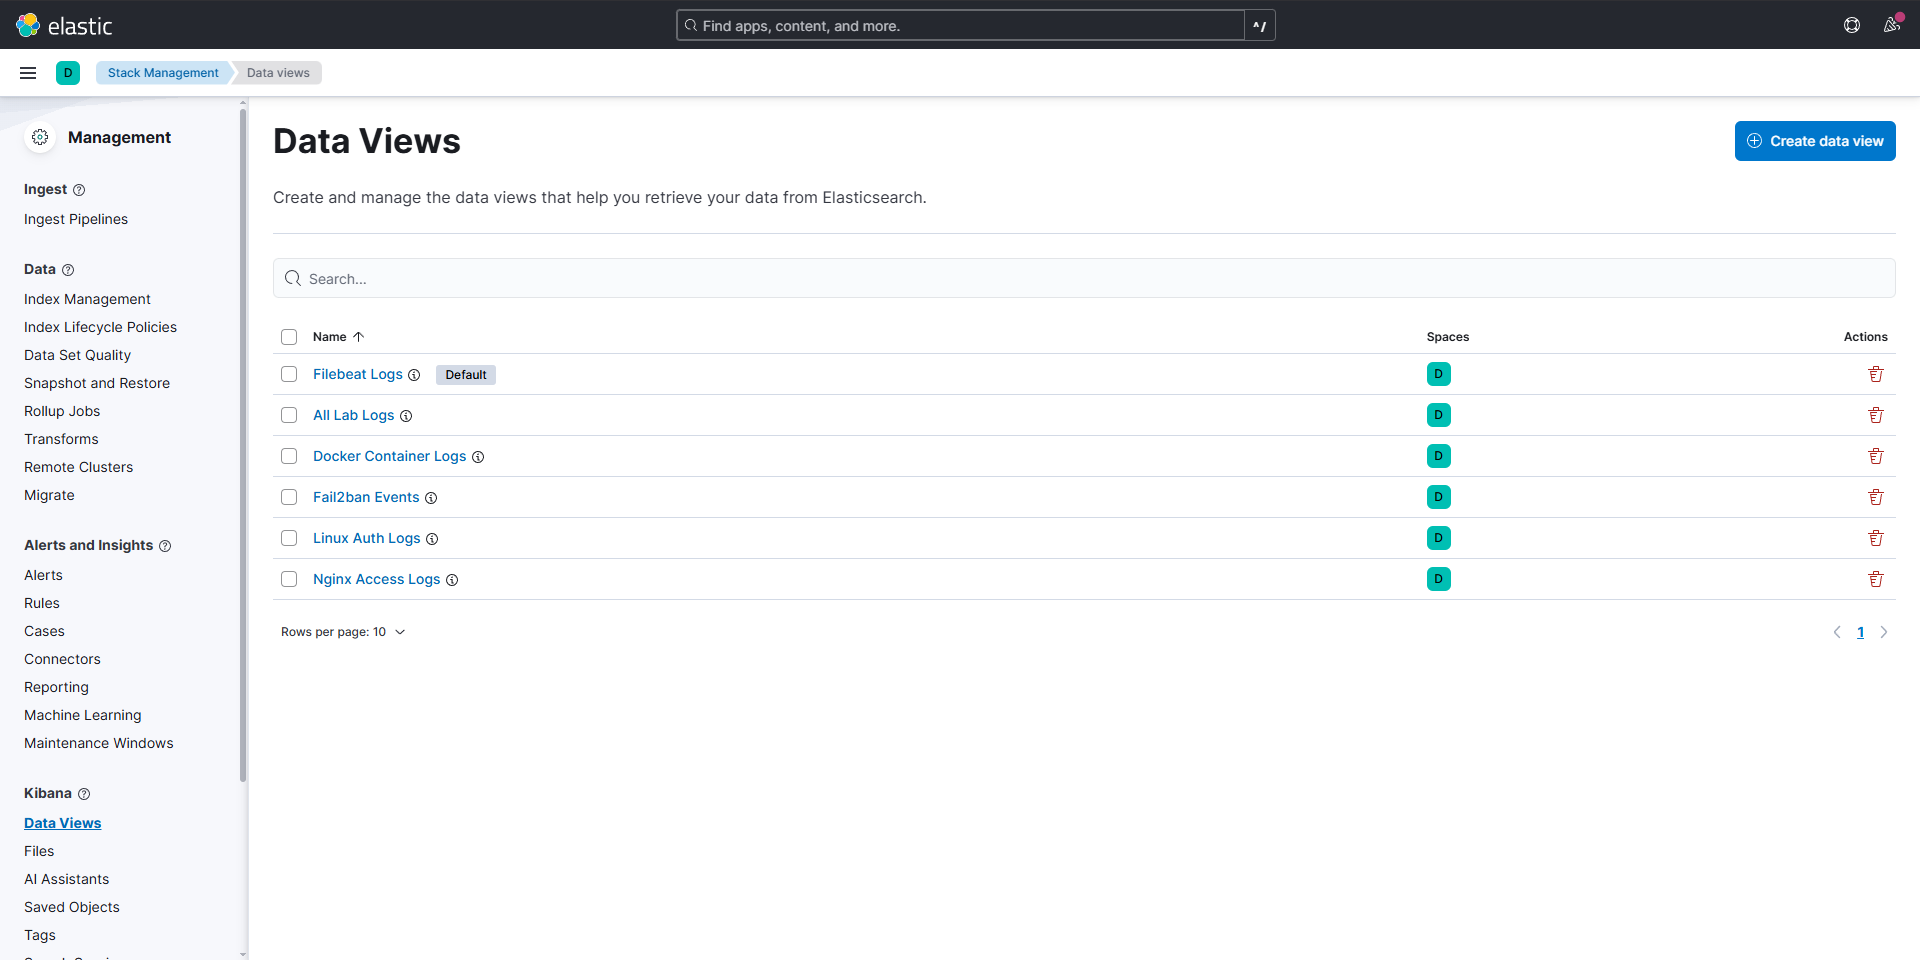
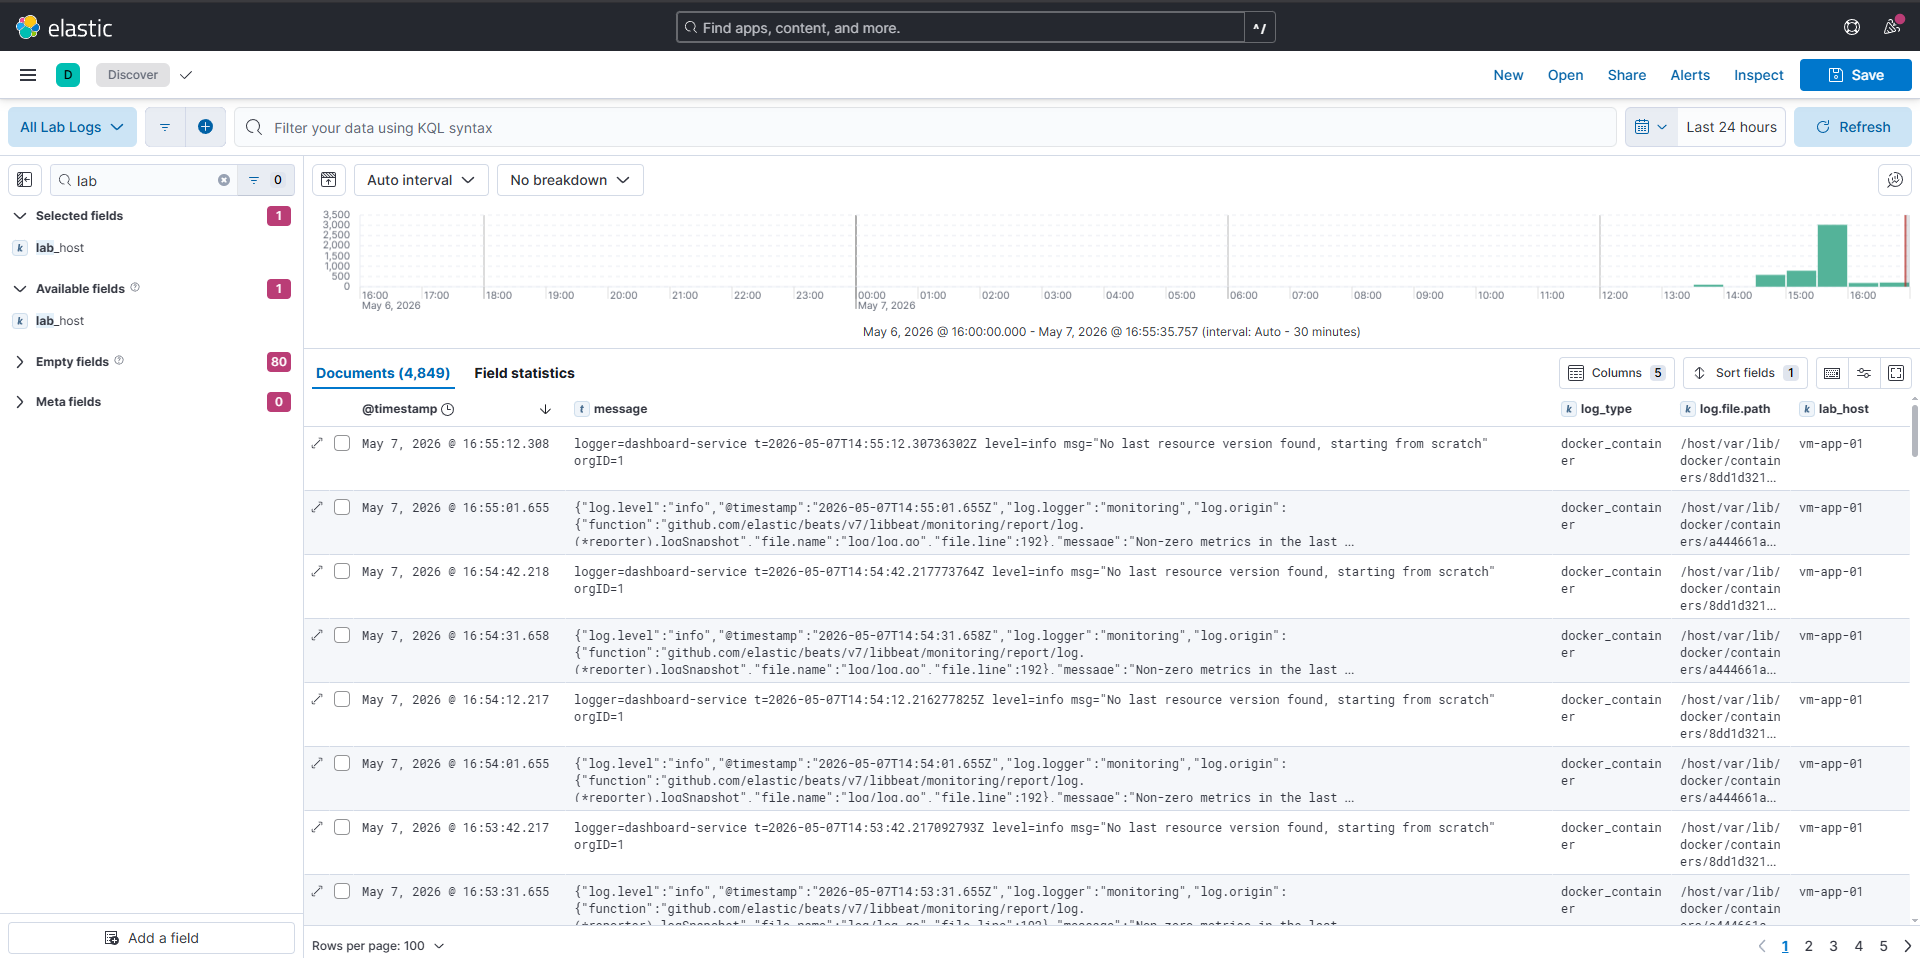
Add multi-node Ansible onboarding

diff --git a/docs/validation/multi-node-ansible-onboarding.md b/docs/validation/multi-node-ansible-onboarding.md
@@ -1,0 +1,141 @@
+# Multi-node Ansible Onboarding
+
+## Goal
+
+Onboard a second Ubuntu Server virtual machine into the lab and prepare the project for a future multi-node observability split.
+
+## Environment
+
+- Host: Windows machine running VMware Workstation Pro
+- Control node: WSL Ubuntu with Ansible
+- Application node: `vm-app-01`
+- Observability node: `vm-observability-01`
+- Automation user: `ansible`
+- Access method: SSH key authentication
+
+## Current Node Roles
+
+| Node | Current purpose |
+|---|---|
+| `vm-app-01` | Application server and current single-node monitoring/logging stack |
+| `vm-observability-01` | Newly onboarded observability node with baseline Linux configuration |
+
+At this stage, the observability node is onboarded and hardened, but the monitoring and logging backend services have not yet been migrated to it.
+
+## Baseline Configuration
+
+Both nodes are managed by Ansible and receive the common Linux baseline:
+
+- Common system packages
+- UFW firewall
+- Fail2ban SSH protection
+- Docker
+- Dedicated `ansible` automation user
+- SSH key-based access
+- Passwordless sudo for automation
+
+## Inventory Layout
+
+The Ansible inventory is split into groups:
+
+```ini
+[app]
+vm-app-01 ansible_host=<APP_VM_IP_ADDRESS> ansible_user=ansible ansible_ssh_private_key_file=<PATH_TO_PRIVATE_KEY>
+
+[observability]
+vm-observability-01 ansible_host=<OBSERVABILITY_VM_IP_ADDRESS> ansible_user=ansible ansible_ssh_private_key_file=<PATH_TO_PRIVATE_KEY>
+
+[all:vars]
+ansible_python_interpreter=/usr/bin/python3
+```
+
+## Current Playbook Layout
+
+The current playbook keeps the existing single-node stack running on `vm-app-01`, while applying the common baseline to both nodes.
+
+```yaml
+---
+- name: Configure common Linux baseline
+  hosts: all
+  become: true
+
+  roles:
+    - common
+    - firewall
+    - fail2ban
+    - docker
+
+- name: Configure current application and observability services
+  hosts: app
+  become: true
+
+  roles:
+    - nginx_container
+    - monitoring_stack
+    - logging_stack
+```
+
+## Validation Commands
+
+Test Ansible connectivity:
+
+```bash
+ansible all -i ansible/inventory.ini -m ping
+```
+
+Verify privilege escalation:
+
+```bash
+ansible all -i ansible/inventory.ini -m command -a "whoami" -b
+```
+
+Apply the baseline and current service layout:
+
+```bash
+ansible-playbook -i ansible/inventory.ini ansible/site.yml
+```
+
+Run the playbook again to verify idempotence:
+
+```bash
+ansible-playbook -i ansible/inventory.ini ansible/site.yml
+```
+
+## Expected Result
+
+Both nodes should be reachable through Ansible.
+
+Expected connectivity result:
+
+```txt
+vm-app-01 | SUCCESS
+vm-observability-01 | SUCCESS
+```
+
+Expected privilege escalation result:
+
+```txt
+root
+```
+
+The playbook should complete with:
+
+```txt
+failed=0
+unreachable=0
+```
+
+## Result
+
+The second VM was successfully onboarded into Ansible.
+
+The lab is now prepared for a future multi-node split where:
+
+- `vm-app-01` will run the application service, exporters, and log shippers
+- `vm-observability-01` will run Prometheus, Grafana, Elasticsearch, and Kibana
+
+## Notes
+
+This milestone keeps the existing single-node service deployment functional while preparing the infrastructure for a cleaner multi-node architecture.
+
+The next step is to split the current monitoring and logging roles into backend services and lightweight agents.
